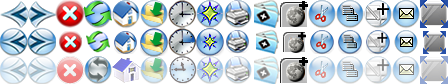
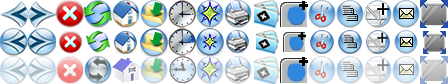
bug fixes

Changed region(s): [[0.625, 0.0476, 0.6875, 0.3333], [0.625, 0.7381, 0.6875, 1.0], [0.625, 0.4286, 0.6875, 0.6429]]

diff --git a/src/chrome/browser/bluetacular-pmr.css b/src/chrome/browser/bluetacular-pmr.css
@@ -537,3 +537,31 @@ toolbar[iconsize="small"] #inspector-button > .toolbarbutton-icon,
   border-bottom-color: #f5f7fa !important;
   border-left-color: #9ea6b1 !important;
 }
+
+
+/* 1.0.1: toolbar sprite rebase cleanup.
+   Main toolbar sprites are rebuilt from original Bluetacular artwork only.
+   Keep nav-bar toolbarbutton painting on the button itself, not as a second
+   icon layer on .toolbarbutton-icon. */
+#nav-bar[mode="icons"] .toolbarbutton-1 > .toolbarbutton-icon {
+  background-image: none !important;
+  filter: none !important;
+  transform: none !important;
+}
+
+/* 1.0.1: original Bluetacular identity popup icon geometry. */
+#identity-popup-icon {
+  width: 64px !important;
+  height: 64px !important;
+  padding: 0 !important;
+  list-style-image: url("chrome://browser/skin/identity.png") !important;
+  -moz-image-region: rect(0px, 64px, 64px, 0px) !important;
+}
+
+.verifiedDomain > #identity-popup-container > #identity-popup-icon {
+  -moz-image-region: rect(64px, 64px, 128px, 0px) !important;
+}
+
+.verifiedIdentity > #identity-popup-container > #identity-popup-icon {
+  -moz-image-region: rect(128px, 64px, 192px, 0px) !important;
+}

diff --git a/README.md b/README.md
@@ -8,7 +8,7 @@ This fork ports and adapts the visual identity of the classic Bluetacular Firefo
 
 ## Status
 
-Release: 1.0.0
+Release: 1.0.1
 
 ## Compatibility
 